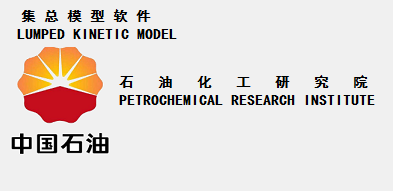
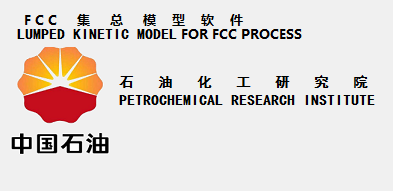
'fiux'

Changed region(s): [[0.4275, 0.0524, 0.7939, 0.2094], [0.0305, 0.0524, 0.3969, 0.1571]]

diff --git a/tkinte.py b/tkinte.py
@@ -29,7 +29,7 @@ class Example(Frame):
         self.initUIFrame()
 
     def initUIRoot(self):
-        self.parent.title("集总模型")
+        self.parent.title("FCC 集总模型")
         self.pack(fill=BOTH, expand=1)
 
         menubar = Menu(self.parent)
@@ -69,7 +69,7 @@ class Example(Frame):
         rareImg = ImageTk.PhotoImage(file="./imgs/rare.png")
 
         lbl = Label(self.frame0, image=titleImg)
-        lbl.grid(row=0, column=1,columnspan=5,sticky=S)
+        lbl.grid(row=0, column=1,columnspan=5,sticky=S+W)
         lbl.image = titleImg
         lbl = Label(self.frame0, image=rareImg)
         lbl.grid(row=3, column=1,columnspan=5,sticky=S)
@@ -783,7 +783,7 @@ class Example(Frame):
         return filename
 
     def onHelp(self):
-        mbox.showinfo("集总模型软件", "中国石油\n兰州化工研究中心")
+        mbox.showinfo("FCC集总模型软件", "中国石油\n兰州化工研究中心")
 
     def doPre(self):
         catObj = self.catObj

diff --git a/run.py b/run.py
@@ -164,7 +164,7 @@ class Example(Frame):
         lbl.grid(row=2, column=0, columnspan=2, rowspan=1, sticky=E, pady=4, padx=5)
         self.T_input = Entry(frame2)
         if not self.catObj.withTemp:
-            self.T_input.insert(0, self.catObj.t)
+            self.T_input.insert(0, '%f,%f'%(self.catObj.t,self.catObj.t))
             self.T_input.configure(state='readonly')
         self.T_input.grid(row=2, column=2, columnspan=2, rowspan=1, sticky=E, pady=4, padx=5)
 
@@ -393,6 +393,7 @@ class Example(Frame):
         factor_Tree.column("t_resid", width=self.winfo_width() / 8)
         factor_Tree.grid(row=0, column=0, pady=4, padx=5)
         self.factor_Tree = factor_Tree
+
         frame2 = Frame(self.frame0, relief=RAISED, borderwidth=1)
         frame2.pack(fill=BOTH, expand=True)
 
